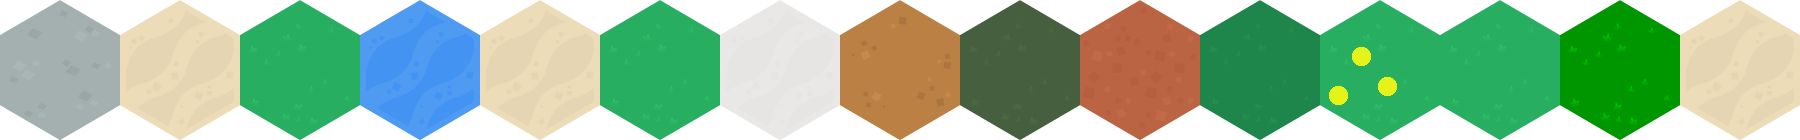
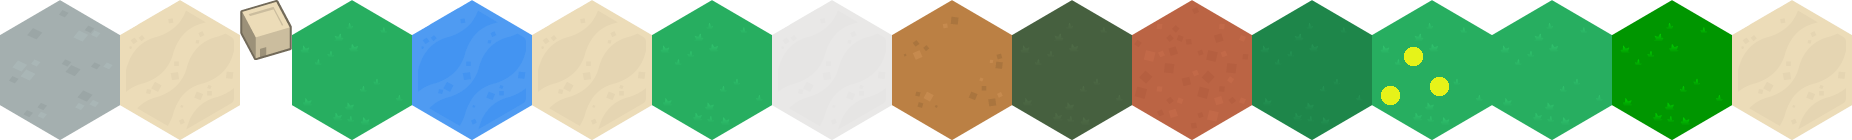
Can render objects on top of hexes, poorly. Wrong alignment, somehow - have to realign it somehow...

Changed region(s): [[0.0933, 0.0, 0.9333, 1.0], [0.0622, 0.7429, 0.0933, 0.7714], [0.0622, 0.2286, 0.0933, 0.2571]]

diff --git a/game/otter/Custom/HexTileInfo.cs b/game/otter/Custom/HexTileInfo.cs
@@ -23,7 +23,12 @@ namespace Otter.Custom
         internal Vertex CreateVertex(int x = 0, int y = 0, int tx = 0, int ty = 0)
         {
             var tileColor = new Color(SFML.Graphics.Color.White);
-            return new Vertex(new Vector2f(_position.x + x, _position.y + y), tileColor.SFMLColor, new Vector2f(Texture.X + tx, Texture.Y + ty));
+            return CreateVertex(new Vector2f(_position.x + x, _position.y + y), tileColor, new Vector2f(Texture.X + tx, Texture.Y + ty));
+        }
+
+        internal Vertex CreateVertex(Vector2f position, Color color, Vector2f textureArea)
+        {
+            return new Vertex(position, color.SFMLColor, textureArea);
         }
 
         internal void AppendVertices(VertexArray array)
@@ -32,6 +37,32 @@ namespace Otter.Custom
             array.Append(CreateVertex(Texture.Width, 0, Texture.Width, 0)); //upper-right
             array.Append(CreateVertex(Texture.Width, Texture.Height, Texture.Width, Texture.Height)); //lower-right
             array.Append(CreateVertex(0, Texture.Height, 0, Texture.Height)); //lower-left
+
+            RenderEvents(array);
+        }
+
+        private void RenderEvents(VertexArray array)
+        {
+            if (TerrainInfo.TerrainType == TerrainType.Beach)
+            {
+                //Create vertices from hardcoded data!
+                //{beigeBuilding.png  X: 240 Y: 0 Width: 52 Height: 60 FrameX: 0 FrameY: 0 FrameWidth: 0 FrameHeight: 0}
+                var buildingTexture = new HexAtlasTexture()
+                {
+                    X = 240,
+                    Y = 0,
+                    Width = 52,
+                    Height = 60
+                };
+//                return CreateVertex(new Vector2f(_position.x + x, _position.y + y), tileColor, new Vector2f(Texture.X + tx, Texture.Y + ty));
+
+                var tileColor = new Color(SFML.Graphics.Color.White);
+                array.Append(CreateVertex(new Vector2f(_position.x, _position.y), tileColor, new Vector2f(buildingTexture.X, buildingTexture.Y))); //upper-left
+                array.Append(CreateVertex(new Vector2f(_position.x + buildingTexture.Width, _position.y), tileColor, new Vector2f(buildingTexture.X + buildingTexture.Width, buildingTexture.Y))); //upper-right
+                array.Append(CreateVertex(new Vector2f(_position.x + buildingTexture.Width, _position.y + buildingTexture.Height), tileColor, new Vector2f(buildingTexture.X + buildingTexture.Width, buildingTexture.Y + buildingTexture.Width))); //lower-right
+                array.Append(CreateVertex(new Vector2f(_position.x, _position.y + buildingTexture.Height), tileColor, new Vector2f(buildingTexture.X, buildingTexture.Y + buildingTexture.Width))); //lower-left
+            }
+            //Should render a completely different texture, so let's add one from texturepacker
         }
     }
 }

diff --git a/game/otter/Custom/HexAtlas.cs b/game/otter/Custom/HexAtlas.cs
@@ -111,10 +111,10 @@ namespace Otter.Custom
             var textureFilePath = (string) data["meta"]["image"];
             Texture = new Texture(Path.Combine(folder, textureFilePath), true);
             var frames = data["frames"];
-            foreach (JProperty frame in frames)
+            foreach (JObject frame in frames)
             {
-                var name = frame.Name;
-                var textureData = frame.Children()["frame"].First();
+                var name = (string)frame["filename"];
+                var textureData = frame["frame"];
                 if (!_subtextures.ContainsKey(name))
                 {
                     var atext = new HexAtlasTexture

diff --git a/game/otter/Custom/HexTileMap.cs b/game/otter/Custom/HexTileMap.cs
@@ -23,7 +23,7 @@ namespace Otter.Custom
             _hexAtlas = atlas;
             _terrainEngine = terrainEngine;
             SetTexture(_hexAtlas.Texture);
-
+            _eventEngine = new EventEngine();
             _hexes = new Dictionary<CubicHexCoord, HexTileInfo>();
             Scale = scale;
         }

diff --git a/game/robot.dad.game/Program.cs b/game/robot.dad.game/Program.cs
@@ -9,7 +9,7 @@ namespace robot.dad.game
         static void Main(string[] args)
         {
 
-            var game = new Game("Dad is a Robot", 1600, 900, 60, true);
+            var game = new Game("Dad is a Robot", 1600, 900, 60, false);
             string atlasFile = "Terrain\\terrain.json";
 
            
